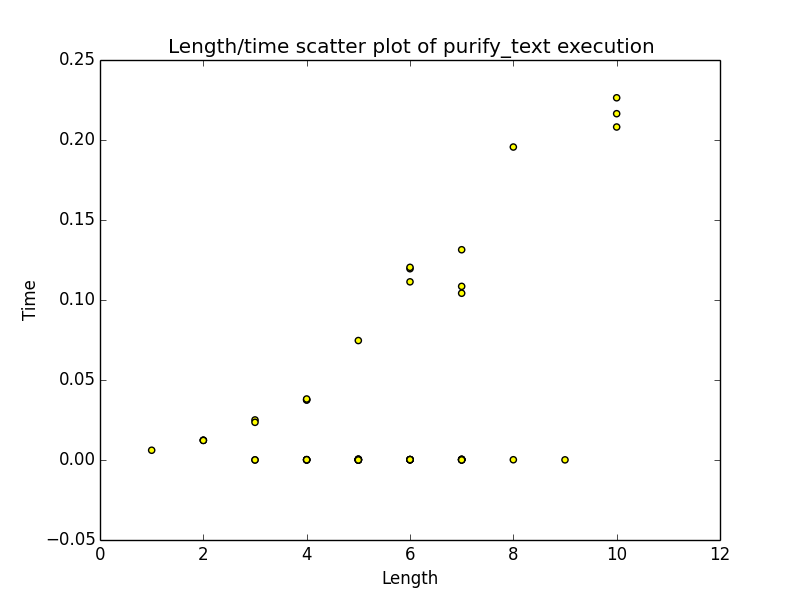
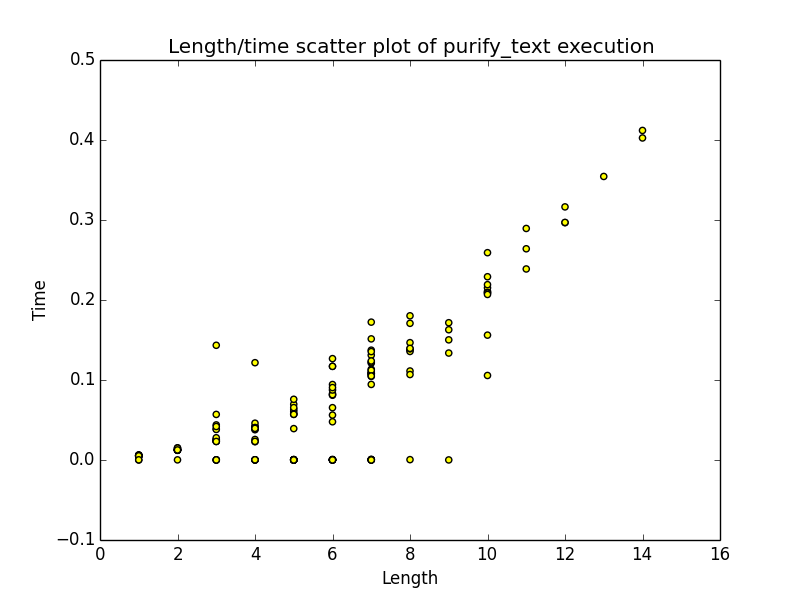
add tests + average

diff --git a/src/purifier.py b/src/purifier.py
@@ -84,7 +84,7 @@ def test_oxxxy():
 h = hpy()
 
 if __name__ == '__main__':
-    print purify_text("ах ты сука, пизда ёбаная", [], [])
+    print purify_text("В каменном веке блять живем. Пол дня потратил чтоб копию сраной бумажки отвезти в горводоканал. Там ни оригинал не спросили ни паспорт, никаких документов вообще. Тупо с копии забили в систему данные и все. Два килобайта информации вез по холоду через пол города на ебаном папирусе. 21 век блять.", [], [])
     # test_oxxxy()
     # length_list = [0, 1, 2, 2]
     # plt.hist(length_list, bins=[i for i in range(0, 15)])

diff --git a/src/test_purify_text.py b/src/test_purify_text.py
@@ -7,6 +7,7 @@ import os.path
 import cProfile
 import StringIO
 import pstats
+import numpy as np
 from guppy import hpy
 
 path, dirs, files = os.walk("./tests").next()
@@ -63,3 +64,6 @@ if __name__ == '__main__':
         plt.scatter(length_list[index], time_list[index], c='yellow')
     # plt.show()
     plt.savefig("correlation.png")
+
+    average = np.average(length_list) / np.average(time_list)
+    print "\nAVERAGE SPEED: " + str(average) + " symbols per second"
